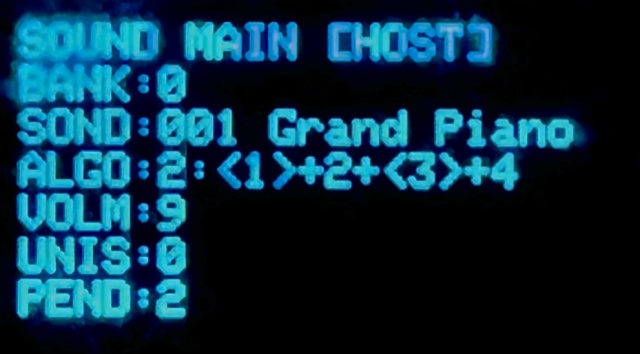
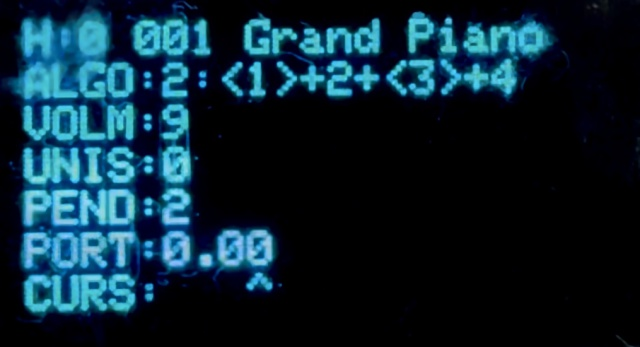
Doc

diff --git a/Doc/UsersManual.md b/Doc/UsersManual.md
@@ -17,9 +17,10 @@ Pico FM Synthesizer (PiFM+S) is a synthesizer sound module working as a USB host
 |VCO|Note-ON/OFF|12 voices polyphonic.|
 ||LFO|Tremolo|
 |||Vibrate|
+||Other Effects|Portament|
 ||MIDI IN|Pitch Bend|
-||Tremolo|
-||Vibrate|
+|||Tremolo|
+|||Vibrate|
 |VCF|Filer types|LPF, HPF, BPF, NOTCH|
 ||LFO|Frequency and/or Q-factor modulation.|
 ||Envelope|Frequency and/or Q-factor modulation.|
@@ -170,15 +171,12 @@ You can see the current sound information and edit the FM algorithm.
 ### 6-1. OLED Display
 ![SOUND MAIN](https://github.com/ohira-s/PicoFM_Synth/blob/main/Doc/images/01_sound_main.jpg)  
 
-### 6-2. BANK:0  
+### 6-2. H:0 001 Grand Piano  
 
-PiFM+S has 10 sound data banks from 0 to 9.  You can see the current sound bank number.  
+"H:" means that PiFM+S works as a USB MIDI host.  "D:" is for a USB MIDI device.  
+The following text shows you the current sound.  The first 1 digit is the bank number.  The second 3 digits is the sound number.  The text is its instrument name.    
 	
-### 6-3. SOUND:001 Grand Piano  
-
-Each sound bank can be saved 1000 sounds from 000 to 999.  You can see the current sound number and its instrument name.  
-	
-### 6-4. ALGO:1:<1>+2 (RT4) 
+### 6-3. ALGO:1:<1>+2 (RT2) 
 
 You can see the FM algorithm of the current sound.  
 On this page, FM algorithms are shown with something like an expression.  For istance, '<1>\+2' or '<1>\*2'.  
@@ -205,22 +203,31 @@ PiFM+S has 11 algorithms.
 |9|<1>\*(2\*3+4)|
 |10|<1>\*(2+3+4)|
 	
-### 6-5. VOLM:5 (RT5) 
+### 6-4. VOLM:5 (RT3) 
 
 You can change the master volume from 1 to 9.  
 	
-### 6-6. UNIS:1 (RT6) 
+### 6-5. UNIS:1 (RT4) 
 
 You can change the unison mode, value is from 0 to 9.  
 0 is for Not-Unison mode.  PiFM+S plays one tone for a note.  
 In case of from 1 to 9, PiFM+S plays an original tone with another tone.  The other tone has a frequency adding UNIS(Hz) value to the original tone.  
 PiFM+S can play 6 notes maximum in the unison mode.    
 
-### 6-7. PBND: 2 (RT7) 
+### 6-6. PBND: 2 (RT5) 
 
 You can set a PITCH BEND pitch.  PiFM+S will change notes pitches playing when it receives the PITCH BEND event via MIDI-IN.  
 If PBND is 2 and PiFM+S plays a C4 note, PiFM+S changes the pitch from C4 to D4 when it receives the PITCH BEND + event.  And changes from C4 to A3# when it receives the PITCH BEND - event.  
-Set 0 to PBEND if you don't need the PITCH BEND.  
+Set 0 to PBND if you don't need the PITCH BEND.  
+
+### 6-7. PORT: 0.00 (RT6) 
+
+You can set a PORTAMENT time in second.  
+Set 0 to PORT if you don't need the PORTAMENT.  
+
+### 6-8. CURS (RT7)  
+
+Move the cursor to change the edit position.  
 
 
 ## 7. ALGORITHM
@@ -307,7 +314,7 @@ Set the effect depth of the vibrate.
 
 ### 9-8. CURS (RT7)  
 
-Move the cursor to change the edit position.
+Move the cursor to change the edit position.  
 
 ## 10. OPERATORS
 You can edit the oscillator parameters of the 4 operators.  

diff --git a/Doc/UsersManual_jp.md b/Doc/UsersManual_jp.md
@@ -16,7 +16,8 @@
 ||合成制御|出力エンベロープ|
 |VCO|発音|12ボイス|
 ||VCO制御|LFOトレモロ|
-||VCO制御|LFOビブラート|
+|||LFOビブラート|
+|||ポルタメント|
 ||MIDI IN|ピッチベンド|
 |||LFOトレモロ|
 |||LFOビブラート|
@@ -173,15 +174,12 @@
 ### 6-1. OLED画面
 ![SOUND MAIN](https://github.com/ohira-s/PicoFM_Synth/blob/main/Doc/images/01_sound_main.jpg)  
 
-### 6-2. BANK:0  
+### 6-2. H:0 001 Grand Piano  
 
-	音色のバンク番号が表示されています。バンクは0〜9まであります。  
+	先頭の「H:」はUSBホストモードで起動していることを表しています。デバイスモードのときは「D:」になります。  
+	その右には、音色のバンク番号、音色番号、音色名が表示されています。  
 	
-### 6-3. SOUND:001 Grand Piano  
-
-	音色番号と音色名が表示されています。各バンクに音色番号は000〜999まであります。  
-	
-### 6-4. ALGO:1:<1>+2 (RT4) 
+### 6-3. ALGO:1:<1>+2 (RT2) 
 
 	FM変調のアルゴリズムが表示されます。  
 	「<1>+2」のような表記は4つのオペレーターの接続方法を数式のような形式で表しています。  
@@ -208,21 +206,30 @@
 |9|<1>\*(2\*3+4)|
 |10|<1>\*(2+3+4)|
 	
-### 6-5. VOLM:5 (RT5) 
+### 6-4. VOLM:5 (RT3) 
 
 	マスターボリュームの値を1〜9の範囲で変更できます。    
 	
-### 6-6. UNIS:1 (RT6) 
+### 6-5. UNIS:1 (RT4) 
 
 	ユニゾン発音を0〜9の範囲で変更できます。  
 	0のときは非ユニゾンモードで1つの音程を1つの音で発音します。    
 	1以上のときは元の音程に加えて、この値の周波数(Hz)だけずらした音も同時発音するユニゾンモードになります。これによって音色の重厚さが増すことがあります。  
 	ユニゾンモードでは最大同時発音数が半分の6になります。  
 
-### 6-7. PBND: 2 (RT7) 
+### 6-6. PBND: 2 (RT5) 
 
 	MIDI INでピッチベンドを受信したときにピッチベンドする音程を指定します。PBENDが2でC4を発音しているとき、高音方向へのピッチベンドを受信するとD4までピッチベンドします。低音側だとA3#までピッチベンドします。  
-	ピッチベンドさせたくないときはPBENDを0にします。  
+	ピッチベンドさせたくないときはPBNDを0にします。  
+
+### 6-7. PORT: 0.00 (RT6) 
+
+	ポルタメントする時間を秒数で指定します。  
+	ポルタメントさせたくないときはPORTを0にします。  
+
+### 6-8. CURS (RT7)  
+
+	増減する実数値の桁位置を設定します。  
 
 ## 7. ALGORITHM
 　現在のFM変調アルゴリズムをダイアグラムで表示します。この画面は表示のみで、操作はありません。  

diff --git a/README.md b/README.md
@@ -37,9 +37,10 @@ Specifications are as below.
 |VCO|Note-ON/OFF|12 voices polyphonic.|
 ||LFO|Tremolo|
 |||Vibrate|
+||Other Effects|Portament|
 ||MIDI IN|Pitch Bend|
-||Tremolo|
-||Vibrate|
+|||Tremolo|
+|||Vibrate|
 |VCF|Filer types|LPF, HPF, BPF, NOTCH|
 ||LFO|Frequency and/or Q-factor modulation.|
 ||Envelope|Frequency and/or Q-factor modulation.|

diff --git a/README_jp.md b/README_jp.md
@@ -37,7 +37,8 @@ FM変調のプログラムはオリジナルで、4オペレーター、11アル
 ||合成制御|出力エンベロープ|
 |VCO|発音|12ボイス|
 ||VCO制御|LFOトレモロ|
-||VCO制御|LFOビブラート|
+|||LFOビブラート|
+|||ポルタメント|
 ||MIDI IN|ピッチベンド|
 |||LFOトレモロ|
 |||LFOビブラート|
